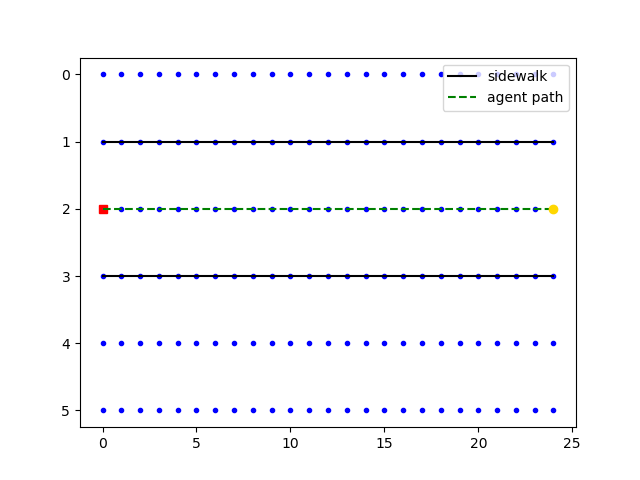
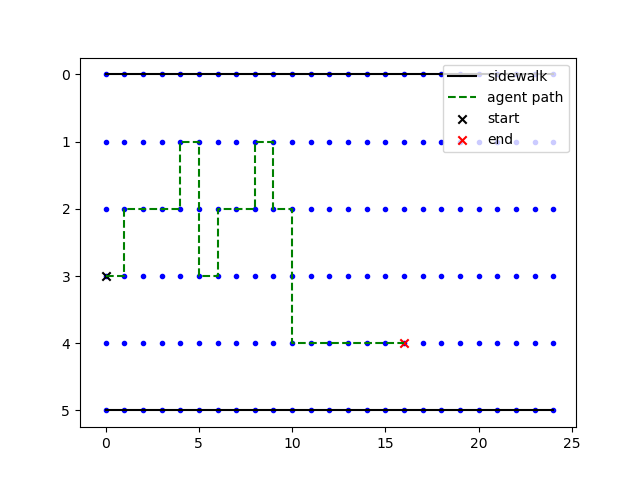
Redefined rewards for staying within bounds of sidewalk and retrained.

diff --git a/sidewalk.py b/sidewalk.py
@@ -37,22 +37,18 @@ class Sidewalk(GridWorld):
 
         return self.state
 
-    def step(self, action:int) -> (int, int, bool):
+    def step(self, action:int) -> (int, int):
         """
         proceed one step in the state space.
         return:
-            next state, reward, done (whether agent reached to a terminal state)
+            next state and reward
         """
         assert action in range(self._nA), "Invalid Action"
 
         prev_state = self.state
         self.state = self.trans_mat[self.state, action]
         r = self.reward_mat[prev_state, action]
-
-        if self.state in self.terminal_states:
-            return self.state, r, True
-        else:
-            return self.state, r, False
+        return self.state, r
 
 
     def build_trans_mat(self) -> np.ndarray:
@@ -63,11 +59,6 @@ class Sidewalk(GridWorld):
         trans_mat = np.zeros((self.nS, self.nA), dtype=int)
 
         for s in range(self.nS):
-
-            # cannot move once in terminal state
-            if s in self.terminal_states:
-                trans_mat[s, :] = s
-                continue
 
             # define left movements
             if s % self.nCols == 0:
@@ -82,10 +73,13 @@ class Sidewalk(GridWorld):
                 trans_mat[s][1] = s - self.nCols
 
             # define right movements
-            trans_mat[s][2] = s + 1
+            if s in self.terminal_states:
+                trans_mat[s][2] = s
+            else:
+                trans_mat[s][2] = s + 1
 
             # define down movements
-            if s >= self._nS - self.nCols:
+            if s >= self.nS - self.nCols:
                 trans_mat[s][3] = s
             else:
                 trans_mat[s][3] = s + self.nCols
@@ -94,7 +88,10 @@ class Sidewalk(GridWorld):
 
     def build_reward_mat(self) -> np.ndarray:
         """
-        Defines the reward matrix
+        Defines the reward matrix for
+        transitions in the environment.
+        Initially, all transitions are 10 and penalties
+        are given for touching the left and right sidewalk edges.
         :return:
         """
         reward_mat = np.zeros((self.nS, self.nA))
@@ -103,37 +100,39 @@ class Sidewalk(GridWorld):
 
             row = s // self.nCols
 
-            # terminal state
-            if s in self.terminal_states:
+            # on left edge of sidewalk
+            if row == self.sL:
+                # penalize movement into and along edge
+                reward_mat[s + self.nCols, 1] = -10.
+                reward_mat[s, 0] = -10.
+                reward_mat[s, 2] = -10.
 
-                # within sidewalk
-                if row > self.sL and row < self.sR:
-                    reward_mat[s - 1, 2] = 50.
-                else:
-                    reward_mat[s - 1, 2] = 15.
-
+                # reward movement out of left edge
+                reward_mat[s, 3] = 10.
                 continue
 
-            # within sidewalk
-            if row > self.sL and row < self.sR:
-                reward_mat[s, 2] = 10.
-                reward_mat[s, 0] = -10.
-
-            # on left sidewalk edge
-            elif row == self.sL:
-                reward_mat[s, 3] = 10.
-                reward_mat[s, 2] = 5.
-                reward_mat[s, 0] = -10.
-
-            # on right sidewalk edge
+            # on right edge of sidewalk
             elif row == self.sR:
+                # penalize movement into and along edge
+                reward_mat[s - self.nCols, 3] = -10.
+                reward_mat[s, 0] = -10.
+                reward_mat[s, 2] = -10.
+
+                # reward movement out of right edge
                 reward_mat[s, 1] = 10.
-                reward_mat[s, 2] = 5.
+                continue
+
+            # reward rightward movements
+            if s not in self.terminal_states:
+                reward_mat[s, 2] = 20.
+
+            # define leftward movements
+            if s % self.nCols != 0:
                 reward_mat[s, 0] = -10.
 
-            # out of sidewalk
-            else:
-                reward_mat[s, 2] = 5.
-                reward_mat[s, 0] = -10.
+            # define downward movements
+            # if s < self.nS - self.nCols:
+            #     reward_mat[s, 3] = 10.
+
 
         return reward_mat

diff --git a/train_sidewalk.py b/train_sidewalk.py
@@ -12,7 +12,7 @@ rows = 6
 cols = 25
 
 # probability of exploiting
-epsilon = 0.1
+epsilon = 0.8
 
 # discount factor
 gamma = 0.6
@@ -24,8 +24,8 @@ nA = 4
 lr = 0.01
 
 # rows for edge of left and right sidewalk
-sL = 1
-sR = 3
+sL = 0
+sR = 5
 
 # directories for policy
 policy_dir = "./policy/"
@@ -58,44 +58,39 @@ if not os.path.exists(fname_policy):
 
     print("Training")
 
+    state = sidewalk.reset()
+
     # update Q function until convergence
     while delta2 >= theta:
 
         delta = 0.0
 
-        state = sidewalk.reset()
-
-        done = False
-
         print(f"> Episode: {episode}")
 
-        while not done :
+        # explore action space
+        if np.random.uniform(0, 1) > epsilon:
+            action = sidewalk.sample()
 
-            # explore action space
-            if np.random.uniform(0, 1) > epsilon:
-                action = sidewalk.sample()
+        # exploit
+        else:
+            action = np.argmax(Q[state])
 
-            # exploit
-            else:
-                action = np.argmax(Q[state])
+        # take step in env
+        obs, r = sidewalk.step(action)
 
-            # take step in env
-            obs, r, done = sidewalk.step(action)
+        # update Q table
+        prev_value = Q[state, action]
 
-            # update Q table
-            prev_value = Q[state, action]
+        new_value = prev_value + lr * (r + sidewalk.gamma * np.max(Q[obs]) - prev_value)
 
-            new_value = prev_value + lr * (r + sidewalk.gamma * np.max(Q[obs]) - prev_value)
+        Q[state, action] = new_value
 
-            Q[state, action] = new_value
-
-            # update state
-            state = obs
-
-            delta = max(delta, np.abs(new_value - prev_value))
+        # update state
+        state = obs
 
         # determine max delta in q values
-        delta2 = delta
+        delta2 = max(delta, np.abs(new_value - prev_value))
+
         episode += 1
 
     # save policy
@@ -105,26 +100,25 @@ else:
     # load policy
     Q = np.load(fname_policy)
 
-n_runs = 1
+n_runs = 25
 
-path = []
+path = list()
+
+state = sidewalk.reset()
+
+path.append(state)
 
 # evaluate policy
 for i in range(n_runs):
-    state = sidewalk.reset()
 
-    path.append(state)
+    action = np.argmax(Q[state])
+    obs, r = sidewalk.step(action)
 
-    done = False
+    state = obs
 
-    while not done:
-        action = np.argmax(Q[state])
-        obs, r, done = sidewalk.step(action)
-
-        state = obs
-
-        # add next state to path
-        path.append(obs)
+    # add next state to path
+    path.append(obs)
+    print(path)
 
 path = np.array(path)
 
@@ -153,13 +147,14 @@ left_y, right_y = np.array([sL] * cols), np.array([sR] * cols)
 # plot
 plt.gca().invert_yaxis()
 
-plt.plot(sj, si, 'b.')
+plt.plot(sj, si, 'b.', zorder=0)
 plt.plot(left_x, left_y, color = 'black', linestyle = '-', label = 'sidewalk')
 plt.plot(right_x, right_y, color = 'black', linestyle = '-')
 
-plt.plot(pj[0], pi[0], color = 'red', marker = 's')
+plt.scatter(pj[0], pi[0], color='black', zorder=1, marker='x', label='start')
 plt.plot(pj, pi, color = 'green', linestyle = '--', label = 'agent path')
-plt.plot(pj[-1], pi[-1], color = 'gold', marker = 'o')
+plt.scatter(pj[-1], pi[-1], color='red', zorder=1, marker='x', label='end')
+
 plt.legend(loc = 'upper right')
 
 plt.savefig(img_dir + "sidewalk_policy.png")
